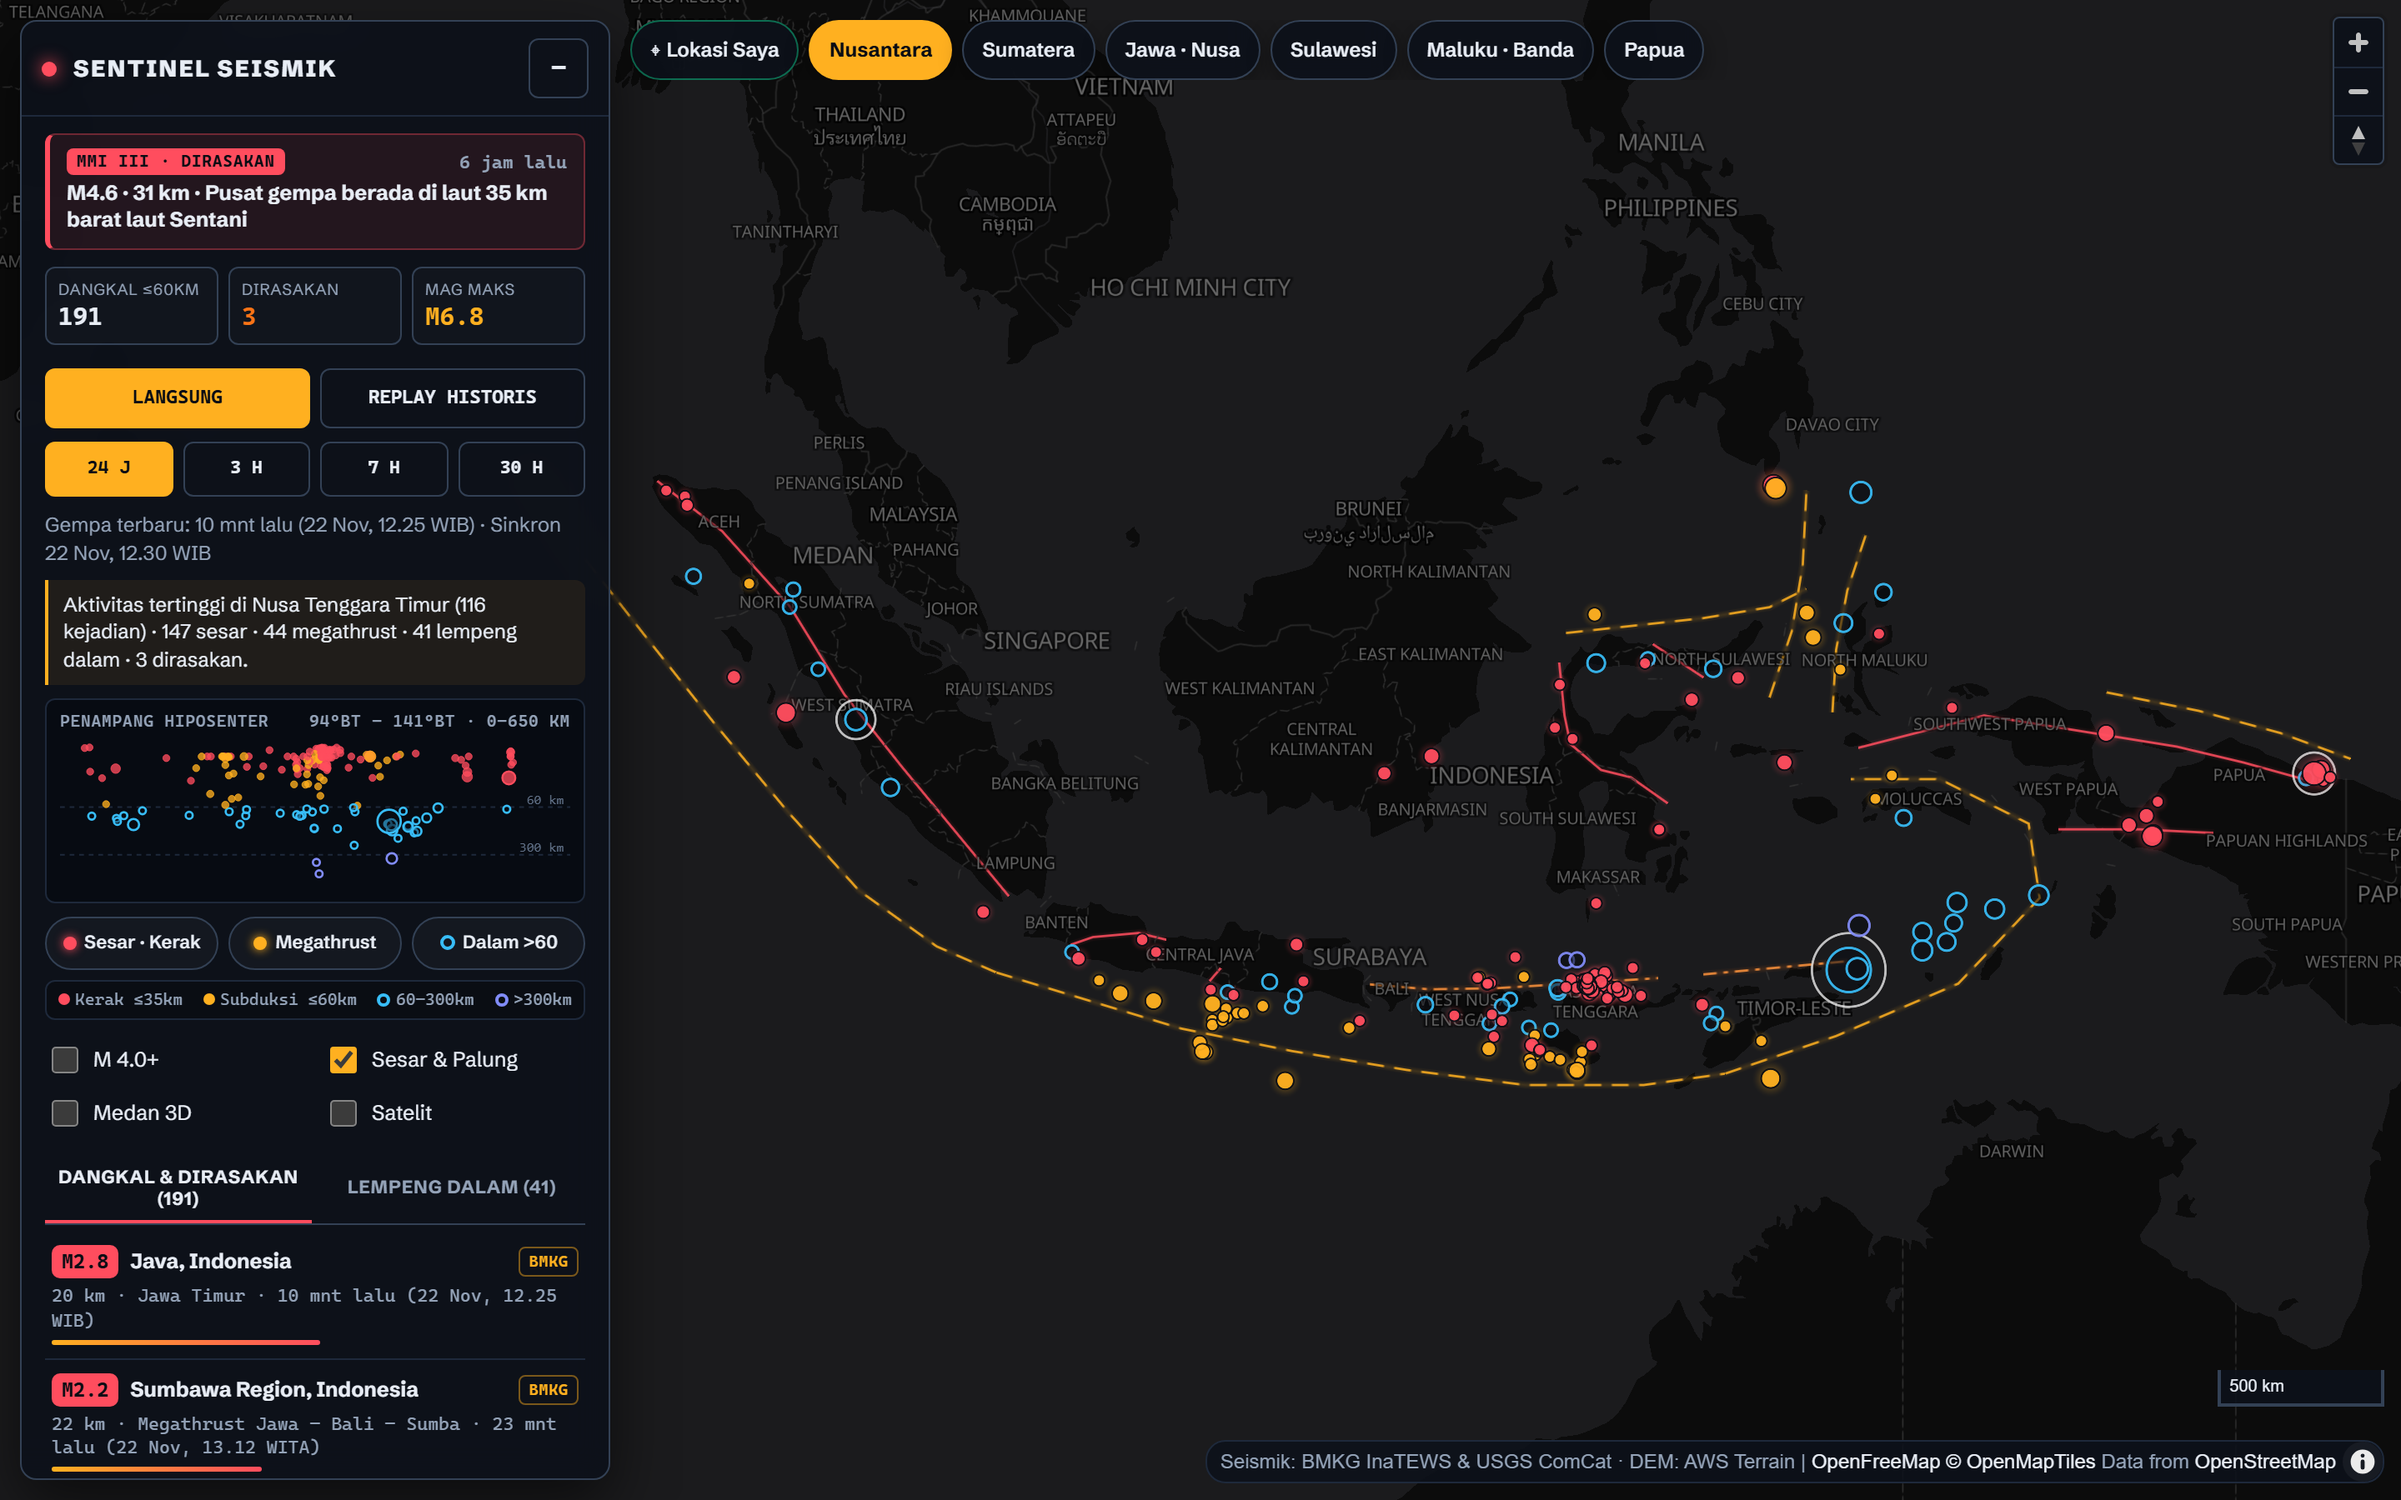
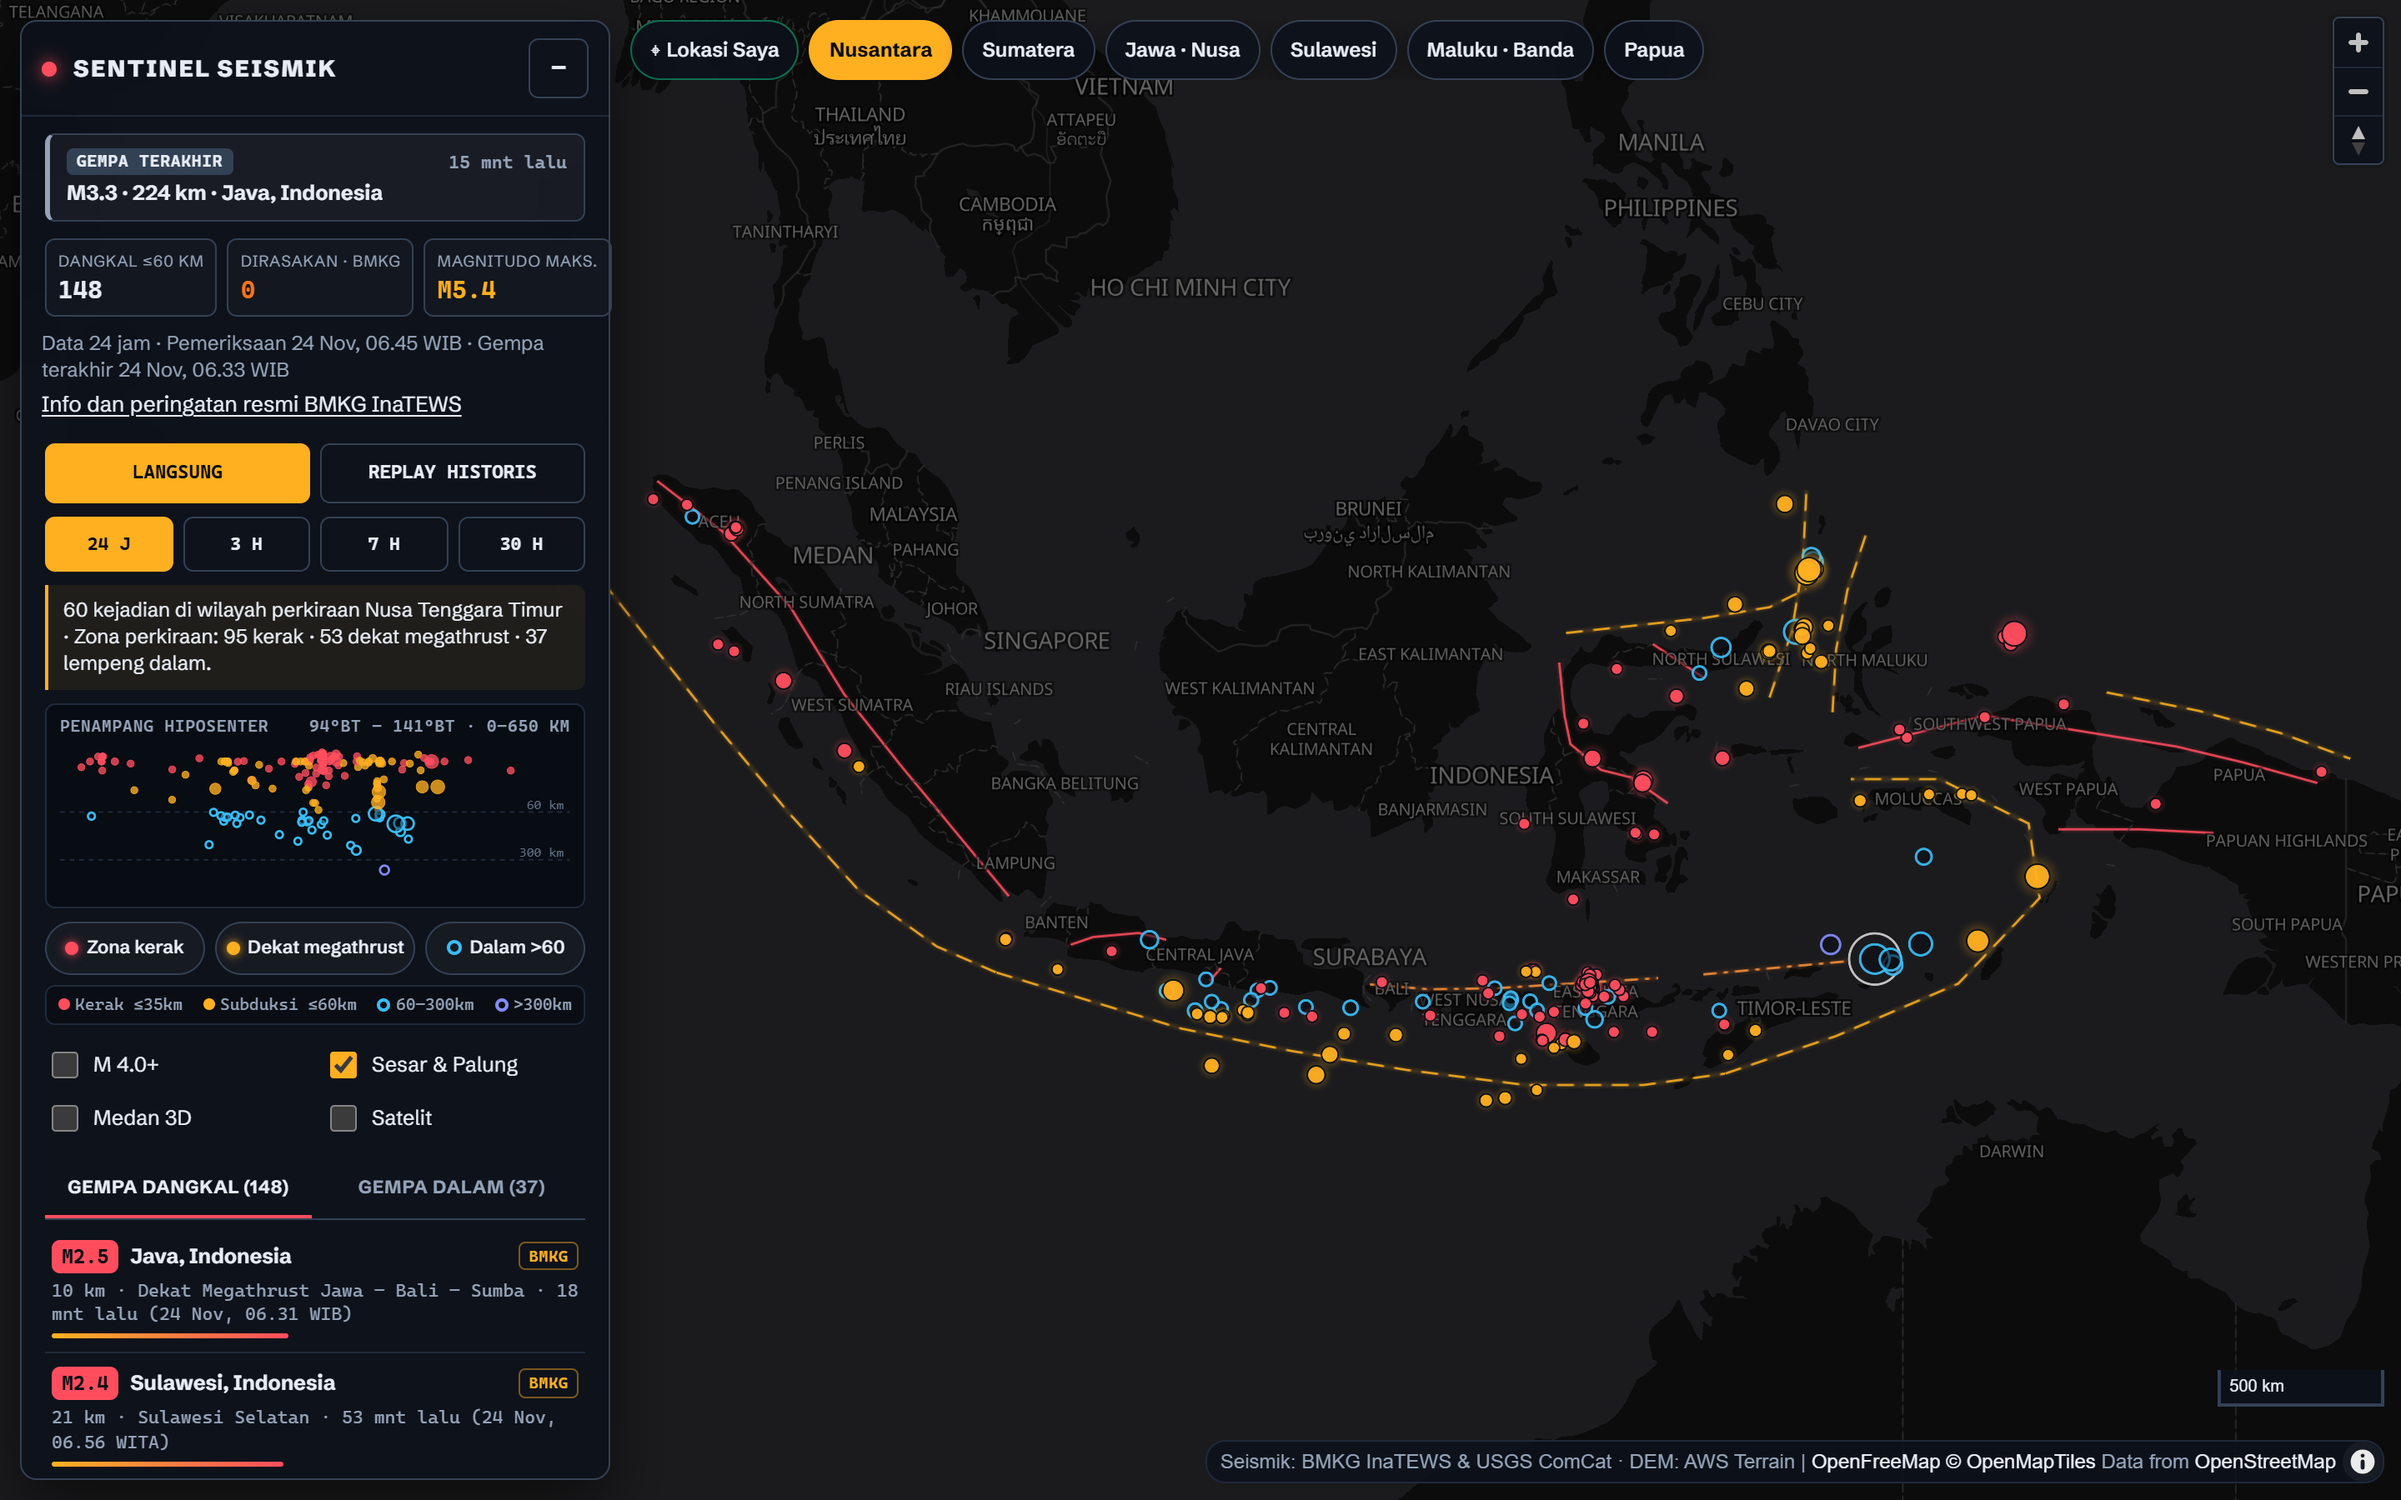
docs: refresh previews and descriptions for P0
- Replace pre-P0 README screenshots with production captures showing data status and the official BMKG InaTEWS link.
- Describe tectonic zones as approximate labels in package.json and the README tagline; drop the tsunami keyword.

diff --git a/README.md b/README.md
@@ -1,6 +1,6 @@
 # Sentinel Seismik · Indonesia Earthquake & Active Fault 3D Monitor
 
-**Real-time 3D Indonesian earthquake observatory fusing BMKG InaTEWS (SeisComP + MMI felt reports) and USGS ComCat — separating shallow crustal faults, subduction megathrusts, and deep Wadati–Benioff intraslab earthquakes with a live hypocenter cross-section.**
+**Real-time 3D Indonesian earthquake observatory fusing BMKG InaTEWS (SeisComP + MMI felt reports) and USGS ComCat — labelling events with approximate shallow crustal, subduction megathrust, and deep Wadati–Benioff intraslab zones, with a live hypocenter cross-section.**
 
 [![Live Map](https://img.shields.io/badge/Live_Map-quake.transbulent.id-ff4d5e?style=flat-square&logo=cloudflare&logoColor=white)](https://quake.transbulent.id/)
 [![Data Fusion](https://img.shields.io/badge/Data-BMKG_InaTEWS_+_USGS_ComCat-ffb020?style=flat-square)](https://inatews.bmkg.go.id/)
